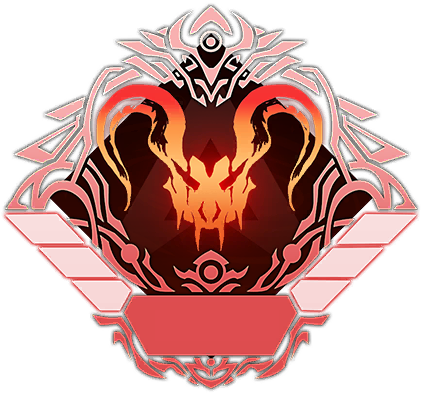
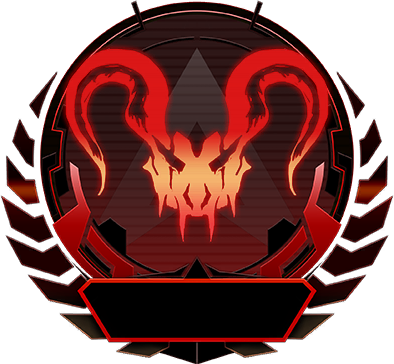
feat: extend season support up to S29

diff --git a/lib/predator-data.ts b/lib/predator-data.ts
@@ -56,90 +56,24 @@ export interface SightingPost {
   createdAt: string;
 }
 
-// S17〜S23（順位ナンバー刻印バッジ対象シーズン）
+// S17〜S29（順位ナンバー刻印バッジ対象シーズン：現在S30のためS29まで対応）
 export const NUMBERED_SEASONS: SeasonBadgeMeta[] = [
-  {
-    season: 23,
-    name: "Season 23",
-    jpTitle: "S23",
-    hasSplits: true,
-    hasRankNumber: true,
-    visualFeature: "",
-    frameShape: "rift-halo",
-    accentColor: "#c084fc",
-    secondaryColor: "#ef4444",
-  },
-  {
-    season: 22,
-    name: "Season 22",
-    jpTitle: "S22",
-    hasSplits: true,
-    hasRankNumber: true,
-    visualFeature: "",
-    frameShape: "shock-bolt",
-    accentColor: "#22d3ee",
-    secondaryColor: "#ef4444",
-  },
-  {
-    season: 21,
-    name: "Season 21",
-    jpTitle: "S21",
-    hasSplits: true,
-    hasRankNumber: true,
-    visualFeature: "",
-    frameShape: "void-spike",
-    accentColor: "#a855f7",
-    secondaryColor: "#dc2626",
-  },
-  {
-    season: 20,
-    name: "Season 20",
-    jpTitle: "S20",
-    hasSplits: true,
-    hasRankNumber: true,
-    visualFeature: "",
-    frameShape: "cyber-wing",
-    accentColor: "#f87171",
-    secondaryColor: "#cbd5e1",
-  },
-  {
-    season: 19,
-    name: "Season 19",
-    jpTitle: "S19",
-    hasSplits: false,
-    hasRankNumber: true,
-    visualFeature: "",
-    frameShape: "flame-crown",
-    accentColor: "#fb923c",
-    secondaryColor: "#ef4444",
-  },
-  {
-    season: 18,
-    name: "Season 18",
-    jpTitle: "S18",
-    hasSplits: false,
-    hasRankNumber: true,
-    visualFeature: "",
-    frameShape: "reaper-wing",
-    accentColor: "#dc2626",
-    secondaryColor: "#52525b",
-  },
-  {
-    season: 17,
-    name: "Season 17",
-    jpTitle: "S17",
-    hasSplits: false,
-    hasRankNumber: true,
-    visualFeature: "",
-    frameShape: "hex-fang",
-    accentColor: "#b91c1c",
-    secondaryColor: "#71717a",
-  },
-];
+  29, 28, 27, 26, 25, 24, 23, 22, 21, 20, 19, 18, 17,
+].map((season) => ({
+  season,
+  name: `Season ${season}`,
+  jpTitle: `S${season}`,
+  hasSplits: season >= 20,
+  hasRankNumber: true,
+  visualFeature: "",
+  frameShape: "classic" as const,
+  accentColor: "#ef4444",
+  secondaryColor: "#f59e0b",
+}));
 
-// バナーの残り2枠などで「どのシーズンを他に持っているか」で絞り込むためのシーズンリスト
+// バナーの残り2枠などで「どのシーズンを他に持っているか」で絞り込むためのシーズンリスト (S12〜S29)
 export const FILTERABLE_ALL_SEASONS: number[] = [
-  23, 22, 21, 20, 19, 18, 17, 16, 15, 14, 13, 12,
+  29, 28, 27, 26, 25, 24, 23, 22, 21, 20, 19, 18, 17, 16, 15, 14, 13, 12,
 ];
 
 // 初期シードデータ（PC版中心・実在の有名プレデター構成イメージ＆バナー照合デモ用データ）

diff --git a/app/page.tsx b/app/page.tsx
@@ -296,11 +296,11 @@ export default function PredFinderPage() {
           <>
             {/* 検索パネル：画像と最小限の入力欄のみ */}
             <section className="rounded-2xl bg-zinc-900/80 border border-zinc-800/90 p-4 sm:p-5 space-y-5">
-              {/* 1. メインバッジ画像選択 (S17〜S23) */}
+              {/* 1. メインバッジ画像選択 (S17〜S29) */}
               <div className="space-y-2">
                 <div className="flex items-center justify-between">
                   <span className="text-xs font-bold text-zinc-400">
-                    シーズンバッジ (S17〜S23)
+                    シーズンバッジ (S17〜S29)
                   </span>
                   <button
                     type="button"

diff --git a/components/PredatorBadgeSvg.tsx b/components/PredatorBadgeSvg.tsx
@@ -24,8 +24,8 @@ export function PredatorBadgeSvg({
   const px =
     size === "xl" ? 104 : size === "lg" ? 84 : size === "md" ? 64 : 44;
 
-  // s2.png ~ s23.png まで実物画像あり（24以降はs23にフォールバック）
-  const safeSeason = Math.min(Math.max(season, 2), 23);
+  // s2.png ~ s29.png まで対応
+  const safeSeason = Math.min(Math.max(season, 2), 29);
   const imgSrc = `/badges/s${safeSeason}.png`;
 
   return (
